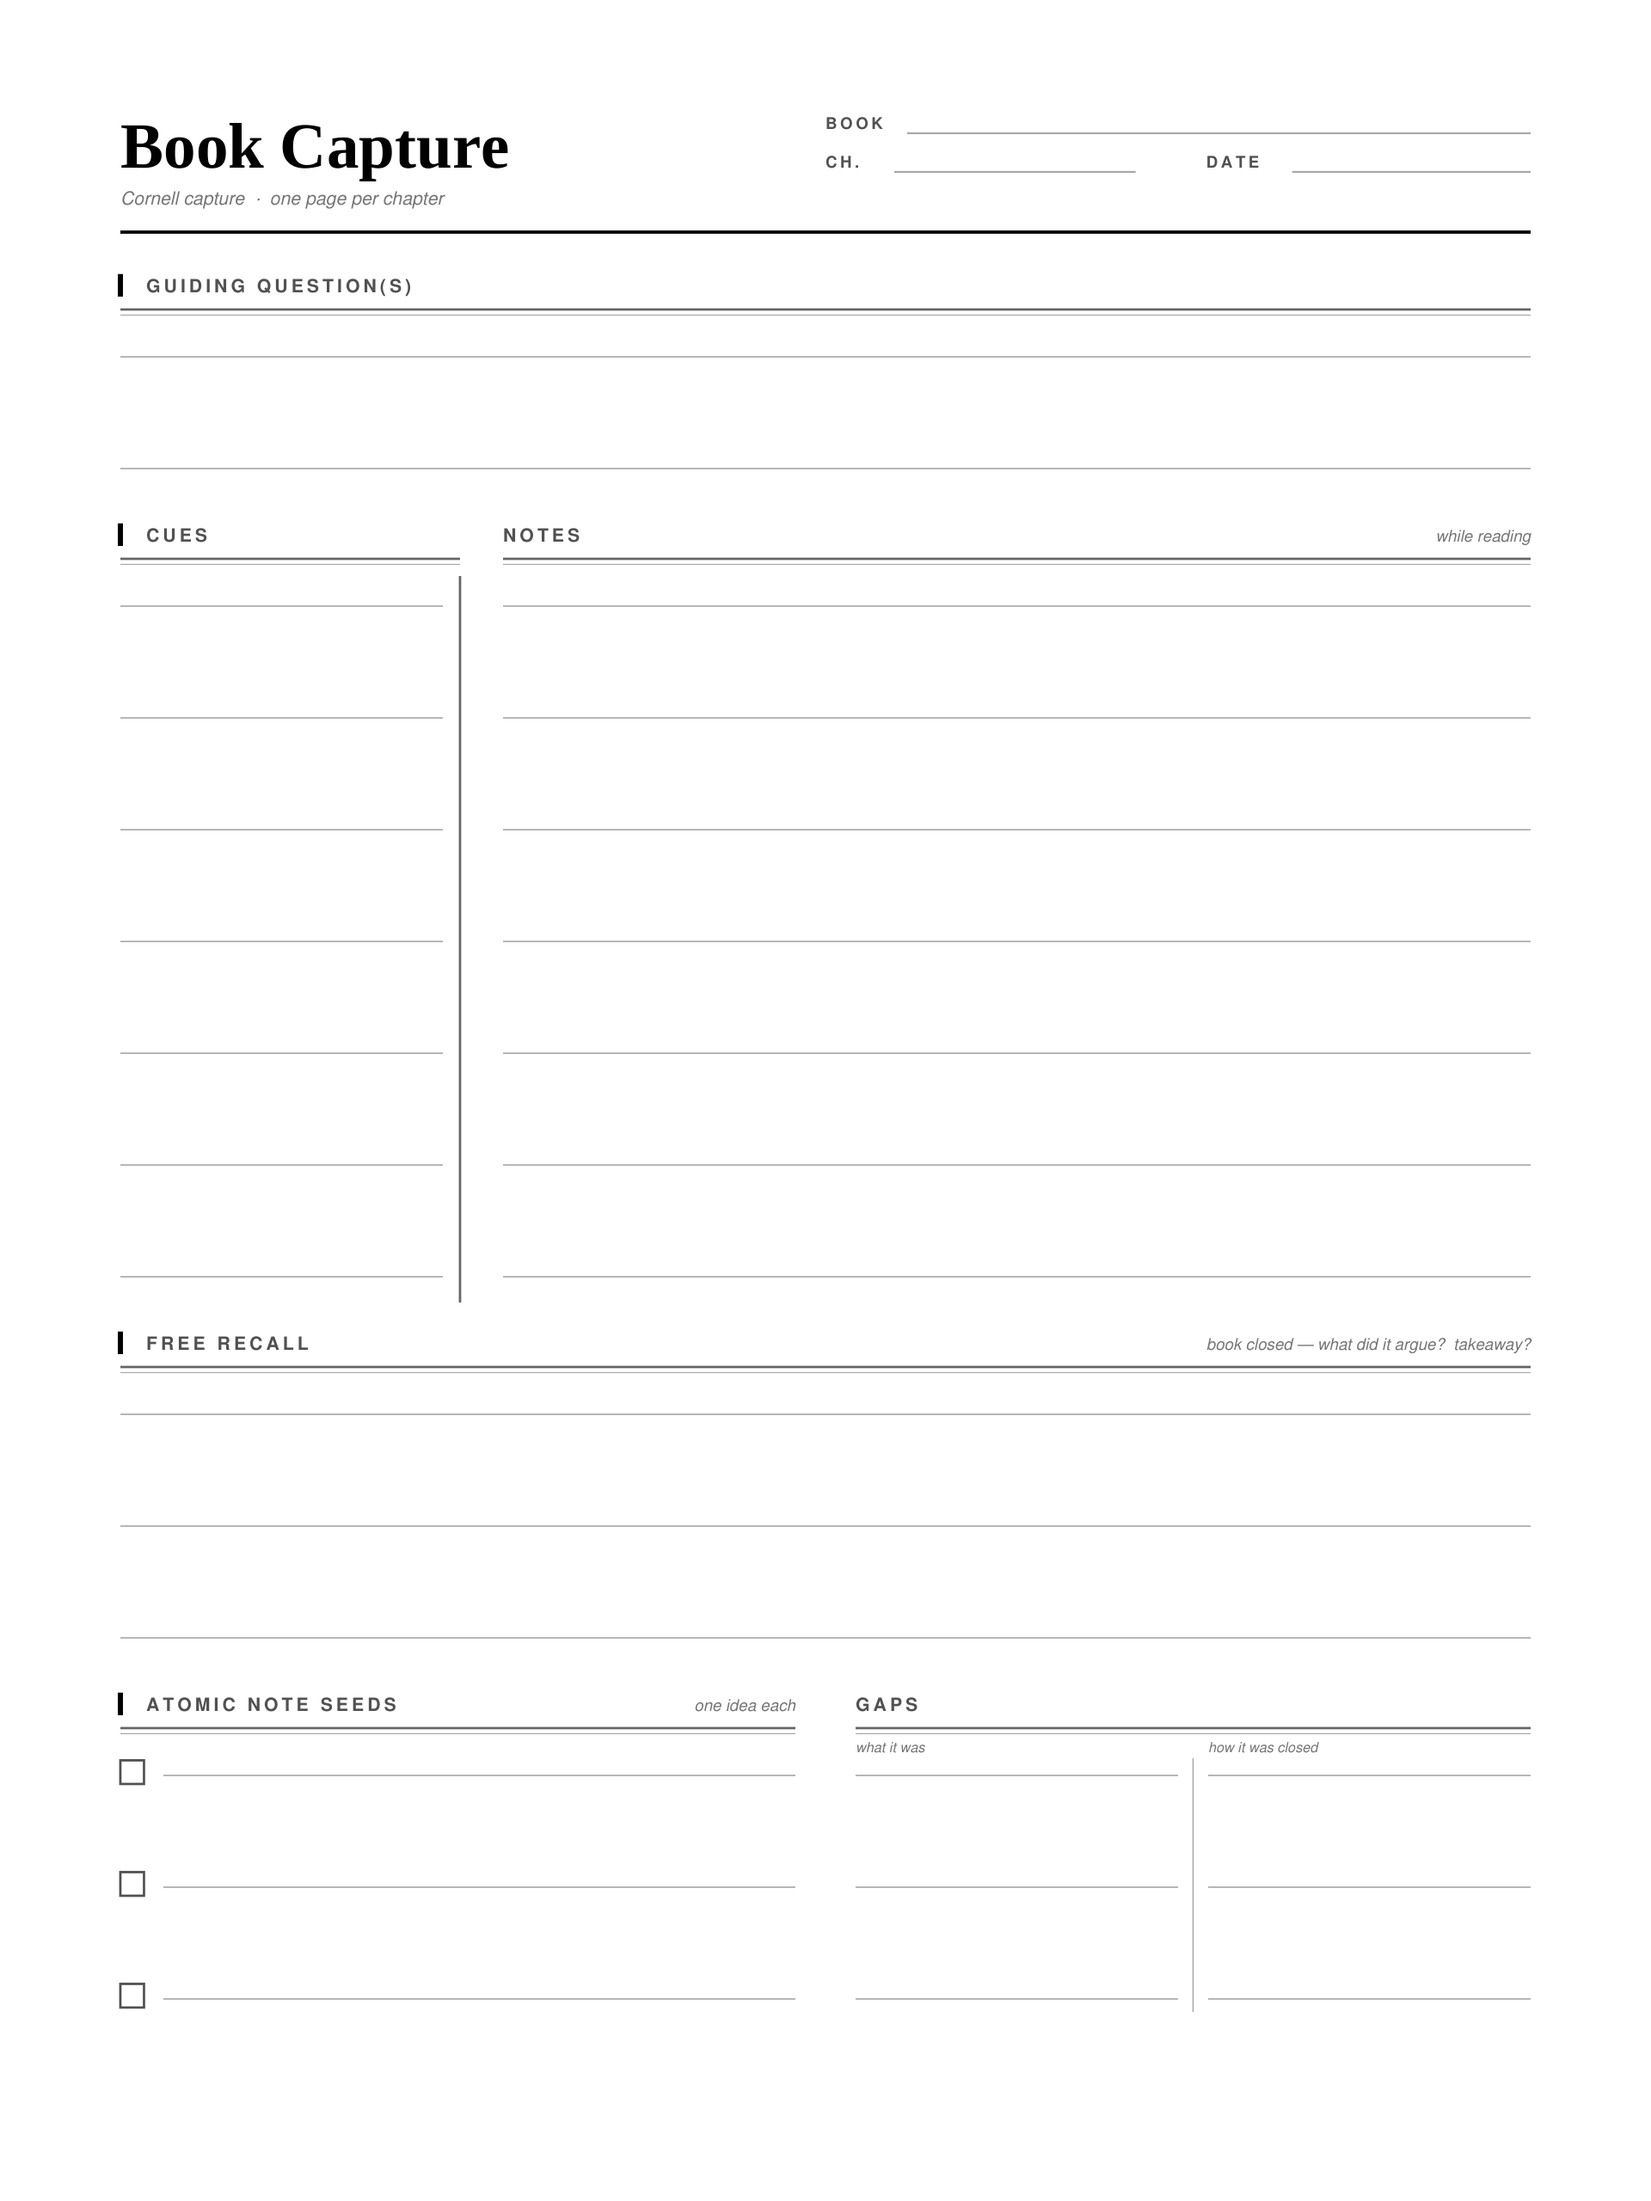
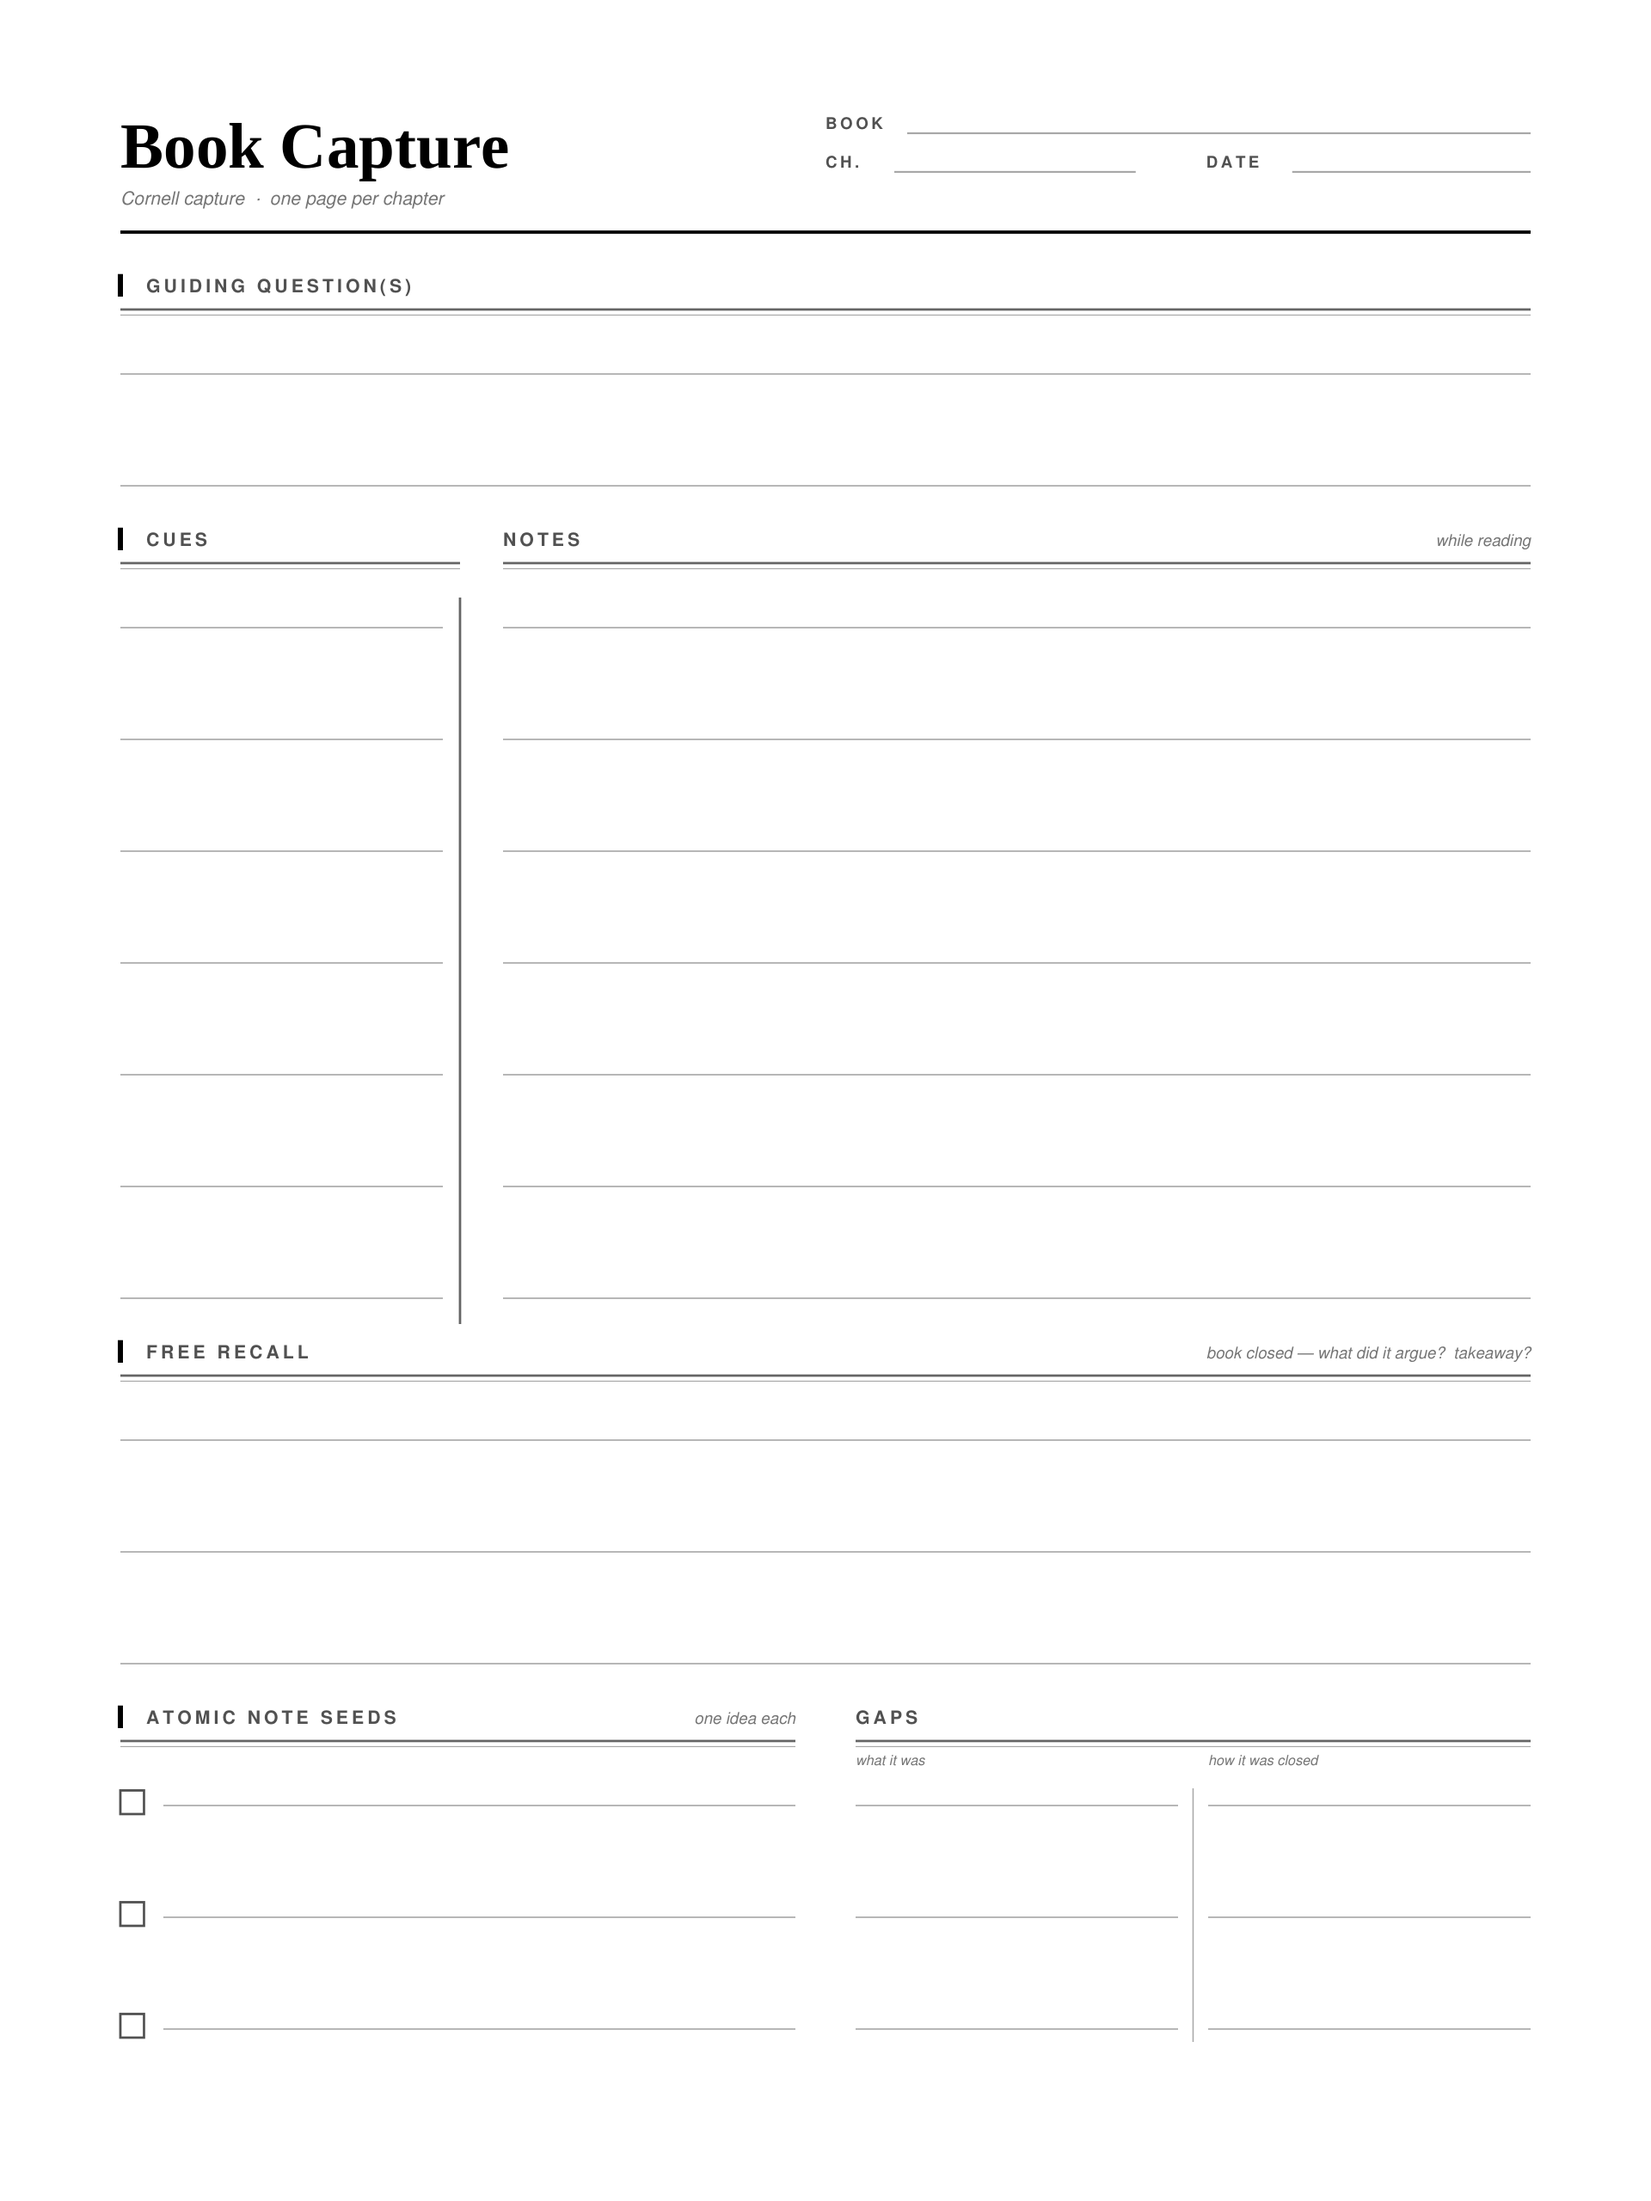
Increase rule-to-first-line spacing for even vertical rhythm

diff --git a/templates/cornell_v2.py b/templates/cornell_v2.py
@@ -118,8 +118,8 @@ def write_rules(c, x1, x2, y_first, n, col=WRITE, w=0.8):
 
 
 # ---------- layout constants ----------
-LABEL_GAP = 30.0   # label baseline -> first writing rule
-ZONE_GAP  = 34.0   # bottom rule of a zone -> next label baseline
+LABEL_GAP = 38.0   # label baseline -> first writing rule (clears the double-rule)
+ZONE_GAP  = 28.0   # bottom rule of a zone -> next label baseline
 N_NOTES   = 7      # hero line count (dominant zone)
 
 
